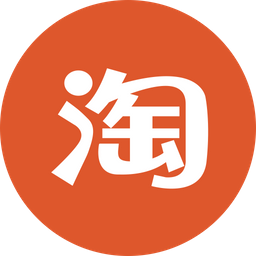
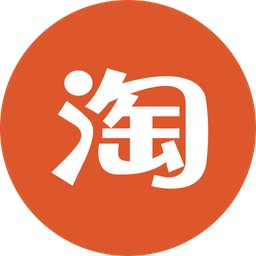
Optimize static images: 91.6% compression, 5.4MB saved

diff --git a/optimize_images.py b/optimize_images.py
@@ -1,0 +1,161 @@
+#!/usr/bin/env python
+"""
+图片优化脚本 - 压缩现有图片以提升加载速度
+使用方法: python optimize_images.py
+"""
+
+import os
+import sys
+from PIL import Image
+import glob
+from pathlib import Path
+
+def optimize_image(image_path, quality=85, max_width=1920):
+    """
+    优化单个图片文件
+    
+    Args:
+        image_path: 图片文件路径
+        quality: JPEG质量 (1-100)
+        max_width: 最大宽度像素
+    """
+    try:
+        with Image.open(image_path) as img:
+            # 获取原始信息
+            original_size = os.path.getsize(image_path)
+            original_width, original_height = img.size
+            
+            # 转换为RGB模式（如果需要）
+            if img.mode in ('RGBA', 'LA', 'P'):
+                # 创建白色背景
+                background = Image.new('RGB', img.size, (255, 255, 255))
+                if img.mode == 'P':
+                    img = img.convert('RGBA')
+                background.paste(img, mask=img.split()[-1] if img.mode == 'RGBA' else None)
+                img = background
+            elif img.mode != 'RGB':
+                img = img.convert('RGB')
+            
+            # 调整尺寸（如果需要）
+            if original_width > max_width:
+                ratio = max_width / original_width
+                new_height = int(original_height * ratio)
+                img = img.resize((max_width, new_height), Image.Resampling.LANCZOS)
+                print(f"  调整尺寸: {original_width}x{original_height} -> {max_width}x{new_height}")
+            
+            # 保存优化后的图片
+            img.save(image_path, 'JPEG', quality=quality, optimize=True, progressive=True)
+            
+            # 计算压缩效果
+            new_size = os.path.getsize(image_path)
+            compression_ratio = (1 - new_size / original_size) * 100
+            
+            print(f"  原始大小: {original_size:,} bytes")
+            print(f"  优化后: {new_size:,} bytes")
+            print(f"  压缩率: {compression_ratio:.1f}%")
+            
+            return True
+            
+    except Exception as e:
+        print(f"  错误: {e}")
+        return False
+
+def optimize_static_images():
+    """
+    优化static目录中的图片
+    """
+    print("=== 优化静态图片文件 ===")
+    
+    static_dir = Path('static/images')
+    if not static_dir.exists():
+        print("static/images 目录不存在")
+        return
+    
+    # 支持的图片格式
+    image_extensions = ['*.jpg', '*.jpeg', '*.png', '*.bmp', '*.tiff']
+    
+    total_original = 0
+    total_optimized = 0
+    optimized_count = 0
+    
+    for extension in image_extensions:
+        for image_path in static_dir.glob(extension):
+            print(f"\n优化: {image_path.name}")
+            
+            original_size = image_path.stat().st_size
+            total_original += original_size
+            
+            if optimize_image(str(image_path)):
+                optimized_size = image_path.stat().st_size
+                total_optimized += optimized_size
+                optimized_count += 1
+    
+    if optimized_count > 0:
+        total_compression = (1 - total_optimized / total_original) * 100
+        print(f"\n=== 优化完成 ===")
+        print(f"优化文件数: {optimized_count}")
+        print(f"总原始大小: {total_original:,} bytes ({total_original/1024/1024:.1f} MB)")
+        print(f"总优化后: {total_optimized:,} bytes ({total_optimized/1024/1024:.1f} MB)")
+        print(f"总压缩率: {total_compression:.1f}%")
+        print(f"节省空间: {(total_original-total_optimized):,} bytes ({(total_original-total_optimized)/1024/1024:.1f} MB)")
+    else:
+        print("没有找到需要优化的图片文件")
+
+def create_webp_versions():
+    """
+    为现有图片创建WebP版本（更小的文件大小）
+    """
+    print("\n=== 创建WebP版本 ===")
+    
+    static_dir = Path('static/images')
+    if not static_dir.exists():
+        return
+    
+    webp_count = 0
+    
+    for image_path in static_dir.glob('*.jpg'):
+        webp_path = image_path.with_suffix('.webp')
+        
+        try:
+            with Image.open(image_path) as img:
+                # 转换为WebP格式
+                img.save(str(webp_path), 'WEBP', quality=80, method=6)
+                
+                original_size = image_path.stat().st_size
+                webp_size = webp_path.stat().st_size
+                compression = (1 - webp_size / original_size) * 100
+                
+                print(f"创建: {webp_path.name} (压缩 {compression:.1f}%)")
+                webp_count += 1
+                
+        except Exception as e:
+            print(f"WebP转换失败 {image_path.name}: {e}")
+    
+    print(f"创建了 {webp_count} 个WebP文件")
+
+def main():
+    print("图片优化工具")
+    print("=" * 50)
+    
+    # 检查PIL是否可用
+    try:
+        from PIL import Image
+    except ImportError:
+        print("错误: 需要安装Pillow库")
+        print("运行: pip install Pillow")
+        return
+    
+    # 优化现有图片
+    optimize_static_images()
+    
+    # 创建WebP版本
+    create_webp_versions()
+    
+    print("\n=== 后续建议 ===")
+    print("1. 配置CloudFront CDN (参考 setup_cloudfront_cdn.md)")
+    print("2. 在模板中使用WebP格式 (支持的浏览器)")
+    print("3. 实现图片懒加载")
+    print("4. 使用响应式图片 (srcset)")
+
+if __name__ == '__main__':
+    main()
